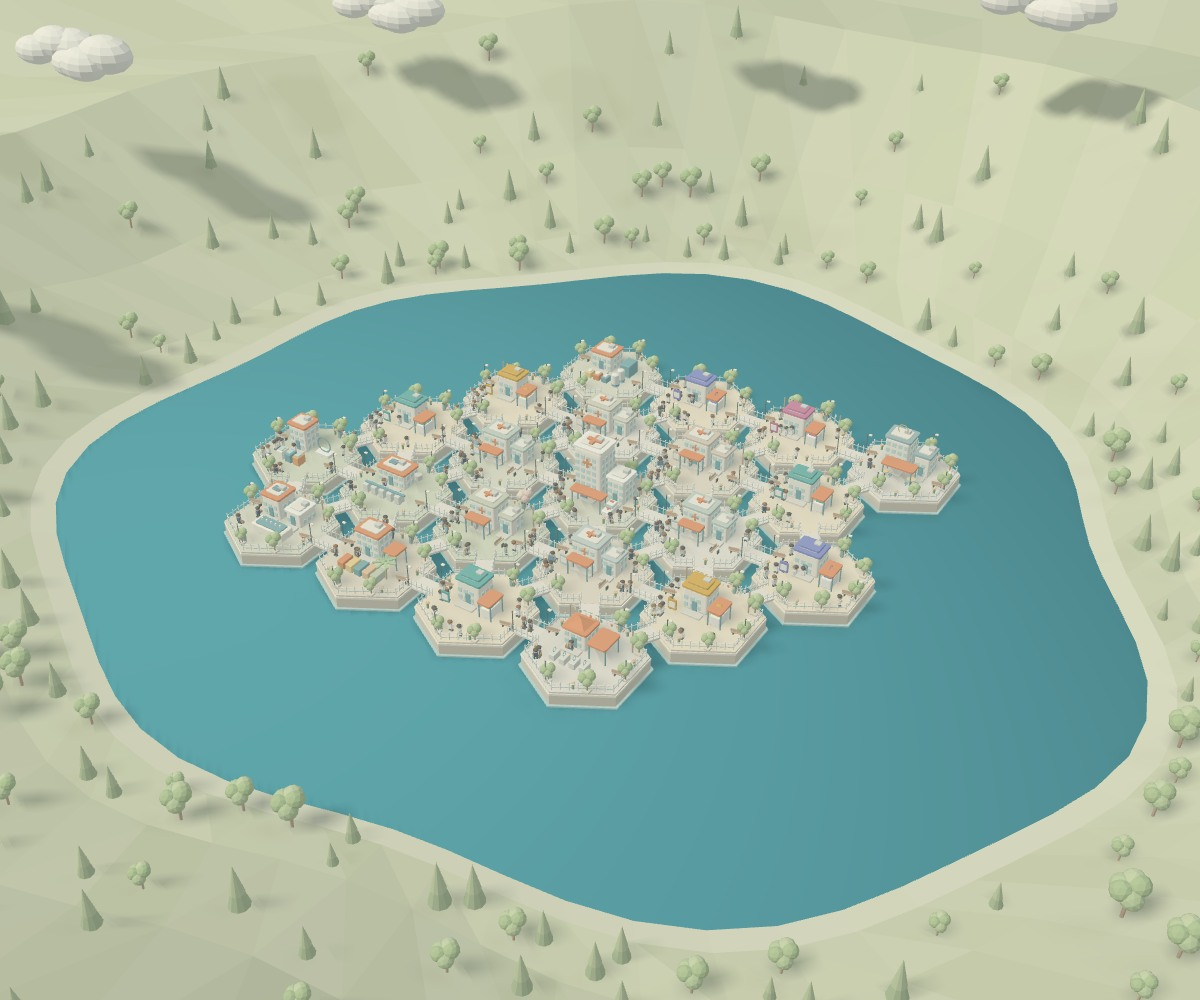
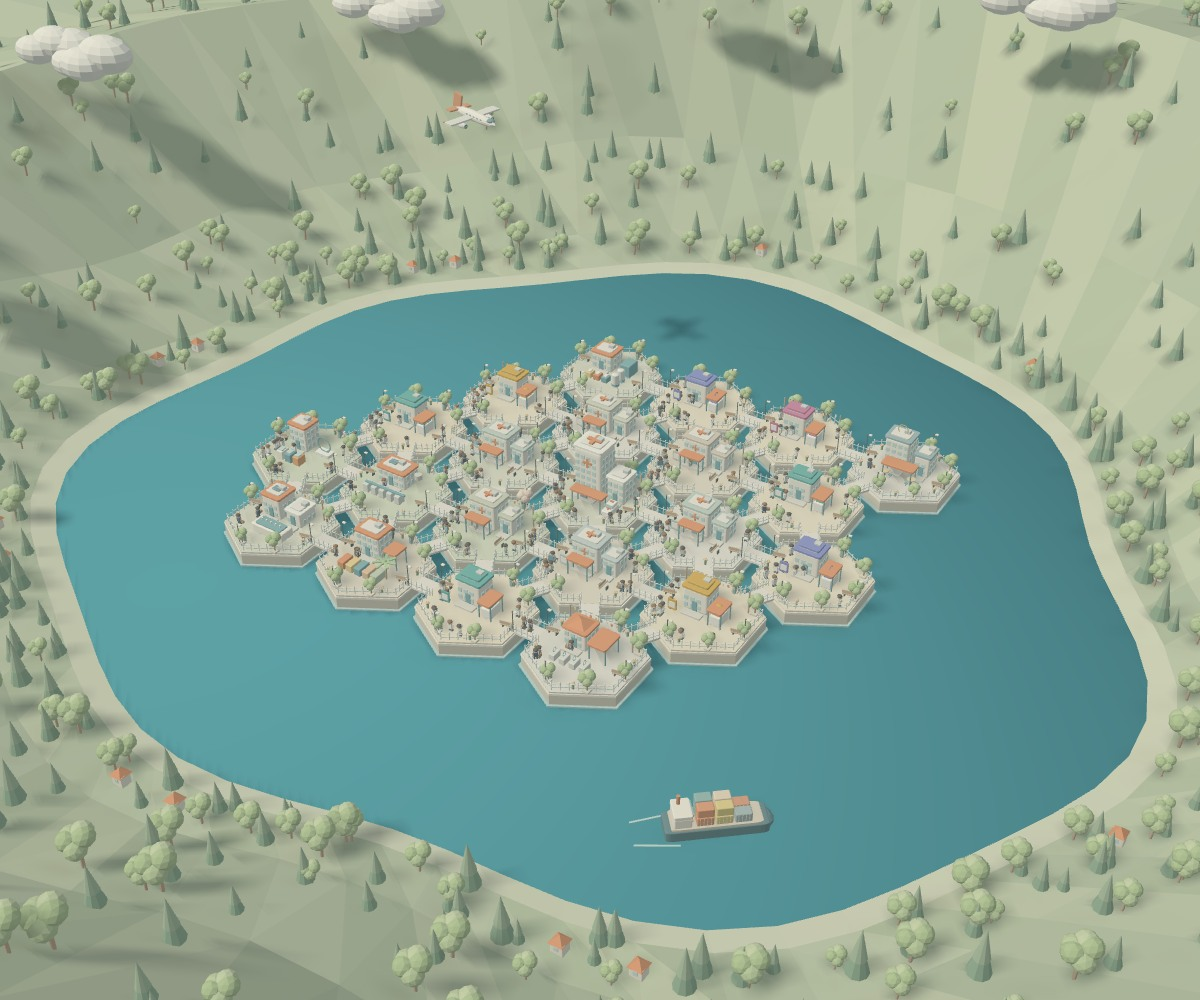
Add animated cargo ship and aircraft with denser mountain lake scenery

diff --git a/island.html b/island.html
@@ -23,6 +23,7 @@ body{background:#62aab5}#island{position:absolute;inset:0;overflow:hidden}#islan
 .scene{isolation:isolate}.masthead,.mapnav,.toolbar,.viewtools,.map-caption{z-index:80}.sidebar{z-index:100}.world-labels{z-index:20}.world-label{font-size:14px;padding:10px 14px;background:#fffdf4ee;border:1px solid #eee7d8;box-shadow:0 4px 12px #29484c20}.world-label span{font-size:12px}.world-label[hidden]{display:none}.label-leaders{position:absolute;inset:0;width:100%;height:100%;overflow:visible;pointer-events:none}.label-leaders line{stroke:#fff9e9;stroke-width:1.8;filter:drop-shadow(0 1px 1px #365c6170)}.person-card{position:fixed;left:22px;bottom:135px;z-index:110;min-width:275px;max-width:350px;border-radius:19px;border:1px solid #e3d7c7;background:#fffaf0f5;padding:18px 19px;box-shadow:0 8px 35px #24454a33;backdrop-filter:blur(10px)}.person-card>small{color:#b17854;font-size:12px;display:block;margin-right:25px}.person-card>strong{font-size:20px;display:block;margin:7px 0}.person-card>p{font-size:14px;line-height:1.7;margin:6px 0 13px;color:#717064}.close-person{position:absolute;right:10px;top:10px;border:0;background:none;font-size:23px}.person-views{display:flex;gap:6px}.person-views button{border:1px solid #dcc9b5;background:#fff9ed;border-radius:16px;padding:7px 12px;font-size:12px}.person-views button.active{background:#c96e45;color:white;border-color:#c96e45}.people-list{display:grid;gap:8px}.person-item{display:grid;gap:4px;text-align:left;background:#fffaf1;border:1px solid #e2d7c7;border-radius:12px;padding:12px}.person-item strong{font-size:14px}.person-item span,.person-item small{font-size:12px;color:#86745f}.filtertabs{gap:13px}.filtertabs button{font-size:12px;white-space:nowrap}
 @media(max-width:700px){.world-label{font-size:13px;padding:10px 12px}.world-label span{font-size:11px}.person-card{left:12px;bottom:65px;max-width:calc(100% - 24px);min-width:260px;padding:15px 17px}.person-card>strong{font-size:18px}.filtertabs{gap:15px}.filtertabs button{font-size:12px}}
 .auth.saved:not([open]){padding:0;border:0;background:none;margin:5px 0 13px}.auth.saved:not([open]) summary{font-size:12px;font-weight:400;color:#978773;text-align:right}.person-item{padding:16px}.person-item strong{font-size:16px}.person-item small{font-size:13px;line-height:1.7}
+@media(min-width:701px){.webgl-note{top:145px;bottom:auto;left:20px;transform:none;max-width:280px;text-align:left;font-size:11px;padding:7px 10px}}
 /* Product and capability details share the existing island palette. */
 .sidebar{overflow-x:hidden}.side-lead,.result p,.source-note,.content-note{overflow-wrap:anywhere}.filtertabs{flex-wrap:wrap;gap:3px 13px}.filtertabs button{font-size:13px}.public-query{border-top:1px solid #ded3c5;margin-top:26px;padding-top:7px}.product-list{display:grid;gap:12px}.product-card{display:block;scroll-margin-top:20px;padding:15px}.product-title{display:flex;align-items:flex-start;gap:8px;justify-content:space-between}.product-title strong{font-size:16px;line-height:1.7}.product-card p{font-size:14px;line-height:1.85;margin:10px 0;color:#6f7065}.product-status{flex:none;border:1px solid #d8c4b0;border-radius:20px;padding:3px 9px;font-size:12px;white-space:nowrap}.product-status.developing{background:#f1dfce;color:#ae5b39;border-color:#f1dfce}.product-card .also-in{display:block;text-align:right;font-size:12px;margin-top:5px}.material{font-size:14px!important;color:#8c755e!important;line-height:1.8}.content-chips{display:flex;flex-wrap:wrap;gap:7px;margin:11px 0}.content-chip{border:1px solid #ddcbbb;border-radius:18px;padding:7px 10px;background:#fffaf1;color:#9c623f;font-size:13px;line-height:1.5;text-align:left}.content-chip:hover{background:#f1dfce}.content-note{font-size:12px!important;color:#96846f!important;line-height:1.8;margin:12px 0}.family-label{display:inline-flex;align-items:center;gap:8px;font-size:14px;color:var(--family);border-radius:16px;background:#fffaf0;padding:7px 11px}.family-label:before{content:'';width:9px;height:9px;border-radius:50%;background:var(--family)}.content-steps{padding-left:27px;margin:20px 0}.content-steps li{padding:0 0 19px 4px;font-size:14px;line-height:1.9}.content-steps li::marker{color:#c96943;font-family:'DM Mono',monospace;font-weight:bold}.content-steps strong{font-size:15px}.content-steps p{font-size:14px;line-height:1.85;color:#747467;margin:6px 0}.capability-items li{padding-bottom:12px}.capability-items small{display:block;font-size:12px;color:#b07852}.journey-tabs{flex-wrap:wrap}.journey-tabs button{font-size:14px}.compact-product{width:100%;margin:9px 0}.compact-product strong{font-size:16px}.tech-neighbor{width:100%;justify-content:space-between;flex-wrap:wrap}.tech-neighbor small{color:#a67e5a;font-size:12px}.related-list{grid-template-columns:1fr!important}.product-highlight{outline:3px solid #c96943;background:#fff4e1}.search-match{display:block;margin-top:6px;font-size:12px;color:#bb724b}.matrix-scroll{overflow-x:auto;overscroll-behavior-x:contain;max-width:100%;border:1px solid #ded3c4;border-radius:12px;background:#fffcf6}.cap-matrix{border-collapse:separate;border-spacing:0;min-width:795px;width:100%;font-size:13px}.cap-matrix caption{text-align:left;padding:12px;font-size:15px;font-weight:bold}.cap-matrix th,.cap-matrix td{border-bottom:1px solid #ebe3d8;padding:9px 5px;text-align:center}.cap-matrix th:first-child{position:static;background:#fffcf6;min-width:137px;text-align:left}.cap-matrix thead th{vertical-align:bottom}.cap-matrix th button{border:0;background:none;padding:4px;color:#746d61;font:inherit;cursor:pointer}.cap-matrix thead button{writing-mode:vertical-rl;min-height:112px;text-align:left;font-size:13px}.cap-matrix button.active{background:#f1dfce;border-radius:8px;color:#ae5b39}.cap-matrix td span:not(.sr-only){display:inline-block;width:11px;height:11px;border-radius:50%}.cap-matrix .family-row th{padding:12px;background:#f5efe4;font-size:13px}.common-capabilities{display:grid;gap:7px}.common-capabilities .person-item{display:flex;align-items:center;justify-content:space-between;gap:8px}.common-capabilities .active{border-color:#c96943;background:#f1dfce}.copy-state{margin:14px 0}.copy-fallback{width:100%;min-height:160px;font-size:13px}.km-link{display:block;font-size:13px!important;color:#9c623f;line-height:1.7;padding:7px 0;overflow-wrap:anywhere}.km-records{margin:8px 0}.km-records .source-note{font-size:12px}.km-count{margin-left:6px;border-radius:12px;background:#e6ede0;padding:2px 6px;color:#537363;font:11px 'DM Mono',monospace}.world-label.cap-dim{opacity:.4}.world-label.selected.cap-dim{opacity:.4}.sr-only{position:absolute;width:1px;height:1px;padding:0;overflow:hidden;clip:rect(0,0,0,0);white-space:nowrap}.tile-item{min-width:0}.tile-item>span{min-width:0}.tile-item .title{overflow-wrap:anywhere}.scene-fallback{object-fit:contain}.detail-top{gap:12px}.detail-top h2{font-size:25px}.thumb-wrap{width:83px;height:90px}.mapnav{top:118px}.mapnav #techToggle{color:#a86241}.mapnav .round{font-size:14px}.mapnav #techToggle:hover{color:white}
 @media(min-width:1500px){.mapnav{top:20px}.masthead{max-width:420px}.mapnav{max-width:320px}}
@@ -54,7 +55,7 @@ html{-webkit-text-size-adjust:100%;text-size-adjust:100%}
 <nav class="mapnav" aria-label="地圖操作"><button class="round" id="home">⌂ 全景</button><button class="round" id="character">☺ 角色</button><button class="round" id="listToggle">☰ 清單</button><button class="round" id="timesToggle">◷ 時間</button><button class="round" id="techToggle">◆ 技術</button><a class="round" href="index.html" style="text-decoration:none">查詢版 ↗</a><button class="round" id="helpButton" aria-label="操作說明">?</button></nav>
 <div id="relationKey" class="relation-key" hidden>實線：產品對應　・　虛線：推定對應＊</div><div class="compass"><span>N</span></div><div class="viewtools"><button class="round" id="zoomIn" aria-label="放大">＋</button><button class="round" id="zoomOut" aria-label="縮小">−</button></div>
 <div class="map-caption"><b id="sceneTitle">點編號探索醫材分區。</b><br><span id="sceneHint">拖曳旋轉 · 滾輪縮放 · 點選地塊</span><small><span class="live-dot"></span>LIVE ISLAND / OPENFUN DATA</small></div>
-<div class="toolbar" aria-label="島嶼顯示選項"><div class="timebuttons"><button data-time="0"><span class="symbol">◒</span>清晨</button><button data-time="1" class="active"><span class="symbol">☀</span>白天</button><button data-time="2"><span class="symbol">◓</span>黃昏</button><button data-time="3"><span class="symbol">☾</span>夜晚</button><span id="clock" class="timeclock">12:00</span></div><div class="layers"><button id="labels">名牌</button><button id="traffic" class="active">搬運</button><button id="connections" aria-pressed="false">關聯</button><button id="pause">Ⅱ 暫停</button><button id="aerial">鳥瞰</button></div></div><div class="tooltip" id="tooltip"></div>
+<div class="toolbar" aria-label="島嶼顯示選項"><div class="timebuttons"><button data-time="0"><span class="symbol">◒</span>清晨</button><button data-time="1" class="active"><span class="symbol">☀</span>白天</button><button data-time="2"><span class="symbol">◓</span>黃昏</button><button data-time="3"><span class="symbol">☾</span>夜晚</button><span id="clock" class="timeclock">12:00</span></div><div class="layers"><button id="labels">名牌</button><button id="traffic" class="active">人流・運輸</button><button id="connections" aria-pressed="false">關聯</button><button id="pause">Ⅱ 暫停</button><button id="aerial">鳥瞰</button></div></div><div class="tooltip" id="tooltip"></div>
 </section>
 <aside class="sidebar" id="sidebar" aria-label="產品清單及商情資訊"><div class="side-head"><small>THE MEDTECH INDEX</small><button class="iconbutton mobile-close" id="closePanel" aria-label="關閉清單">×</button><span class="number">01 — 22</span></div><div id="sideContent"></div></aside>
 <div id="toast" class="toast" role="status"></div>
@@ -132,7 +133,7 @@ function detailBody(t){if(t.type==='dept'){
 }
 function showList(){window.medtechScene?.home();window.previewMarker?.select(-1);$('#personCard')?.remove();selected=null;window.syncPreviewRelations?.();resetHighlights();target.x=0;target.z=0;target.zoom=1;querySeq++;recordSeq++;$('#sceneTitle').textContent='點編號探索醫材分區。';$('#sideContent').innerHTML=`<h2>把需求，連起來。</h2><p class="side-lead">以蜂窩排列的醫材分區，地塊間保留水道與短橋，外圍以山林湖岸環繞。中央醫院、六個科別，連結技術與供應服務。點科別看產品，開啟「關聯」看對應。</p><div class="searchwrap"><input id="listSearch" type="search" placeholder="搜尋產品、技術、關鍵字…" aria-label="搜尋地塊" value="${esc(listQuery)}"></div><div class="filtertabs"><button data-filter="all">全部</button><button data-filter="dept">科別</button><button data-filter="tech">技術分區</button><button data-filter="supplier">供應服務</button><button data-filter="market">醫院與客戶</button></div><div class="tile-list" id="tileList"></div><div class="side-foot"><span class="live-dot"></span>商情資料來自歐噴資料庫。<br>蜂窩分區供內容導覽，相鄰不代表合作。產品與技術對應請看「關聯」；＊為推定或待確認。</div>`;renderList();$('#listSearch').addEventListener('input',e=>{listQuery=e.target.value;renderList()})}
 function renderList(){const q=listQuery.trim().toLowerCase(),hits=C.products.filter(p=>p.name.toLowerCase().includes(q)),list=tiles.filter(t=>(filter==='all'||t.type===filter)&&((t.name+t.en+t.tags.join('')).toLowerCase().includes(q)||hits.some(p=>p.dept===t.id)));$('#tileList').innerHTML=list.length?list.map(t=>`<button class="tile-item" data-tile="${t.i}"><span class="tile-icon" style="background:${t.color}">${t.icon}</span><span><span class="title">${t.name}</span><span class="subtitle">${t.en}</span>${q&&hits.some(p=>p.dept===t.id)?`<small class="search-match">含：${hits.filter(p=>p.dept===t.id).map(p=>esc(p.name)).join('、')}</small>`:''}</span><span class="arrow">↗</span></button>`).join(''):'<p class="empty">沒有相符的方向，請換個關鍵字。</p>';document.querySelectorAll('[data-filter]').forEach(b=>b.classList.toggle('active',b.dataset.filter===filter))}
-function choose(i){if(!tiles[i])return;resetHighlights();$('#personCard')?.remove();window.previewMarker?.select(i);selected=tiles[i];window.syncPreviewRelations?.();window.medtechScene?.focus(i);target.x=selected.x;target.z=selected.z;target.zoom=1.32;$('#sceneTitle').textContent=selected.name+' · '+selected.tags.join('／');$('#sideContent').innerHTML=`<button class="back" id="backList">← 回到探索清單</button><div class="detail-top"><div class="thumb-wrap"><img id="detailThumb" src="town-preview.jpg?v=10" alt="${selected.name}島嶼場景"><span>${selected.icon}</span></div><div><p class="detail-num">${String(i+1).padStart(2,'0')} / ${selected.en}</p><h2>${selected.name}</h2></div></div><p class="side-lead">${esc(selected.description)}</p><div class="tags">${selected.tags.map(t=>`<span>${esc(t)}</span>`).join('')}</div>${detailBody(selected)}<section class="public-query"><h3 class="results-heading">歐噴資料庫查詢</h3><form class="query-form" id="queryForm"><input id="query" aria-label="歐噴關鍵字" value="${selected.query}" required><button class="primary">搜尋 ↗</button></form>${authHTML()}<div id="queryResults"><p class="status">正在搜尋公開索引…</p></div><div id="records"></div><p class="source-note">來源：<a href="https://data.openfun.tw/" target="_blank" rel="noopener noreferrer">歐噴資料庫</a>。索引條目不等同採購需求，請核對原始來源。</p></section>`;$('#sidebar').scrollTop=0;document.body.classList.add('panel-open');runQuery(selected.query)}
+function choose(i){if(!tiles[i])return;resetHighlights();$('#personCard')?.remove();window.previewMarker?.select(i);selected=tiles[i];window.syncPreviewRelations?.();window.medtechScene?.focus(i);target.x=selected.x;target.z=selected.z;target.zoom=1.32;$('#sceneTitle').textContent=selected.name+' · '+selected.tags.join('／');$('#sideContent').innerHTML=`<button class="back" id="backList">← 回到探索清單</button><div class="detail-top"><div class="thumb-wrap"><img id="detailThumb" src="town-preview.jpg?v=12" alt="${selected.name}島嶼場景"><span>${selected.icon}</span></div><div><p class="detail-num">${String(i+1).padStart(2,'0')} / ${selected.en}</p><h2>${selected.name}</h2></div></div><p class="side-lead">${esc(selected.description)}</p><div class="tags">${selected.tags.map(t=>`<span>${esc(t)}</span>`).join('')}</div>${detailBody(selected)}<section class="public-query"><h3 class="results-heading">歐噴資料庫查詢</h3><form class="query-form" id="queryForm"><input id="query" aria-label="歐噴關鍵字" value="${selected.query}" required><button class="primary">搜尋 ↗</button></form>${authHTML()}<div id="queryResults"><p class="status">正在搜尋公開索引…</p></div><div id="records"></div><p class="source-note">來源：<a href="https://data.openfun.tw/" target="_blank" rel="noopener noreferrer">歐噴資料庫</a>。索引條目不等同採購需求，請核對原始來源。</p></section>`;$('#sidebar').scrollTop=0;document.body.classList.add('panel-open');runQuery(selected.query)}
 function goProduct(id){const p=C.products.find(p=>p.id===id);if(!p)return;choose(tileById(p.dept).i);const el=$('#product-'+id);if(!el)return;el.classList.add('product-highlight');el.scrollIntoView({block:'start',behavior:paused?'auto':'smooth'});setTimeout(()=>el.classList.remove('product-highlight'),2400)}
 function showTechMap(){querySeq++;recordSeq++;selected=null;$('#personCard')?.remove();window.medtechScene?.home();window.previewMarker?.select(-1);resetHighlights();const ordered=['surface','structure','forming','process'].flatMap(f=>C.techs.filter(t=>t.family===f));$('#sceneTitle').textContent='從產品應用，走向技術與共用能力。';$('#sideContent').innerHTML=`<button class="back" id="backList">← 回到探索清單</button><h2>技術地圖</h2><p class="side-lead">八座技術分區，十二項共用能力。點能力欄頭，查看共用能力的技術分區。</p><div class="matrix-scroll" tabindex="0" role="region" aria-label="技術與共用能力矩陣，可左右滑動"><table class="cap-matrix"><caption>技術 × 共用能力</caption><thead><tr><th scope="col">技術分區</th>${C.capabilities.map(c=>`<th scope="col"><button data-capability="${c.id}" aria-pressed="false">${esc(c.name)}</button></th>`).join('')}</tr></thead><tbody>${ordered.map((t,i)=>{const f=C.families[t.family],newFamily=i===0||ordered[i-1].family!==t.family;return `${newFamily?`<tr class="family-row"><th colspan="${C.capabilities.length+1}" style="color:${f.color}">${f.name}</th></tr>`:''}<tr><th scope="row"><button data-tech="${t.id}">${esc(tileById(t.id).name)}</button></th>${C.capabilities.map(c=>`<td class="${c.techs.includes(t.id)?'has-cap':''}">${c.techs.includes(t.id)?`<span style="background:${f.color}" role="img" aria-label="使用${esc(c.name)}"></span>`:'<span class="sr-only">未共用</span>'}</td>`).join('')}</tr>`}).join('')}</tbody></table></div><p class="content-note">＊分區為本站整理。圓點表示能力項目有對應關鍵字，不代表完成度。</p><p id="capStatus" class="status" role="status">選擇能力可標亮島名。</p><h3 class="results-heading">最常共用的能力</h3><div class="common-capabilities">${[...C.capabilities].sort((a,b)=>b.techs.length-a.techs.length).slice(0,5).map(c=>`<button class="person-item" data-capability="${c.id}"><strong>${esc(c.name)}</strong><small>共用 ×${c.techs.length}</small></button>`).join('')}</div>${kmSettings()}<button class="primary copy-state" id="copyState">複製目前狀態</button><p class="content-note">複製技術名稱、紀錄數與紀錄標題；未連線時不填入紀錄數。</p><textarea id="copyFallback" class="copy-fallback" aria-label="目前狀態文字" hidden readonly></textarea>`;$('#sidebar').scrollTop=0;document.body.classList.add('panel-open')}
 
@@ -171,12 +172,12 @@ window.showPersonInfo=p=>{let card=$('#personCard');if(!card){card=document.crea
 window.updatePersonInfo=p=>{if($('#personCard')?.dataset.person===String(p.id)){$('#personTask').textContent=p.task;$('#personCard > small').textContent=p.island}};
 document.addEventListener('click',e=>{const b=e.target.closest('[data-person]');if(b)window.medtechScene?.selectPerson(+b.dataset.person,b.dataset.personView);if(e.target.id==='closePerson'){$('#personCard')?.remove();window.medtechScene?.clearPerson()}});
 window.syncPreviewRelations=()=>{const svg=$('#previewRelations'),anchors=window.previewRelationAnchors;if(!svg||!anchors)return;const related=window.MEDTECH_RELATIONS.filter(r=>selected?(r.a===selected.i||r.b===selected.i):r.kind==='application');svg.style.display=showLinks?'':'none';svg.innerHTML=related.map(r=>{const a=anchors[r.a],b=anchors[r.b],lift=Math.min(95,25+Math.hypot(a.x-b.x,a.y-b.y)*.15);return `<path d="M ${a.x},${a.y} Q ${(a.x+b.x)/2},${(a.y+b.y)/2-lift} ${b.x},${b.y}" fill="none" stroke="${r.inferred?'#b76d44':'#316f77'}" stroke-width="2.3" ${r.inferred?'stroke-dasharray="6 5"':''}/>`}).join('')};
-window.showIslandPreview=note=>{window.previewLabelCleanup?.();const stage=$('#island');stage.style.background='#bdc69b';stage.innerHTML='<img class="scene-fallback" src="town-preview.jpg?v=10" alt="醫院科別、技術與供應服務蜂窩分區預覽"><p class="webgl-note"></p>';stage.querySelector('.webgl-note').textContent=note;const relations=document.createElementNS('http://www.w3.org/2000/svg','svg');relations.id='previewRelations';relations.classList.add('relation-overlay');stage.appendChild(relations);const marker=window.MedtechLabels.create(stage,tiles);window.previewMarker=marker;applyLabelState();marker.root.style.display=showLabels?'':'none';const image=stage.querySelector('img');const update=()=>{const r=stage.getBoundingClientRect(),portrait=r.width/r.height<.8,wanted=portrait?'town-preview-portrait.jpg?v=10':'town-preview.jpg?v=10';if(image.getAttribute('src')!==wanted){marker.root.style.visibility='hidden';image.src=wanted;return}if(!image.complete||!image.naturalWidth)return;marker.root.style.visibility='visible';const iw=portrait?780:1200,ih=portrait?1688:1000,k=Math.min(r.width/iw,r.height/ih),ox=(r.width-iw*k)/2,oy=(r.height-ih*k)/2;const anchors=(portrait?window.MEDTECH_PREVIEW_PORTRAIT_POINTS:window.MEDTECH_PREVIEW_POINTS).map(([u,v])=>({x:ox+u*iw*k,y:oy+v*ih*k}));marker.update(anchors,r.width,r.height);window.previewRelationAnchors=anchors;relations.setAttribute('viewBox',`0 0 ${r.width} ${r.height}`);window.syncPreviewRelations?.()};image.onload=update;const observer=new ResizeObserver(update);observer.observe(stage);update();window.previewLabelCleanup=()=>{observer.disconnect();marker.destroy();relations.remove();window.previewRelationAnchors=null;window.previewMarker=null}};
+window.showIslandPreview=note=>{window.previewLabelCleanup?.();const stage=$('#island');stage.style.background='#bdc69b';stage.innerHTML='<img class="scene-fallback" src="town-preview.jpg?v=12" alt="醫院科別、技術與供應服務蜂窩分區預覽"><p class="webgl-note"></p>';stage.querySelector('.webgl-note').textContent=note;const relations=document.createElementNS('http://www.w3.org/2000/svg','svg');relations.id='previewRelations';relations.classList.add('relation-overlay');stage.appendChild(relations);const marker=window.MedtechLabels.create(stage,tiles);window.previewMarker=marker;applyLabelState();marker.root.style.display=showLabels?'':'none';const image=stage.querySelector('img');const update=()=>{const r=stage.getBoundingClientRect(),portrait=r.width/r.height<.8,wanted=portrait?'town-preview-portrait.jpg?v=12':'town-preview.jpg?v=12';if(image.getAttribute('src')!==wanted){marker.root.style.visibility='hidden';image.src=wanted;return}if(!image.complete||!image.naturalWidth)return;marker.root.style.visibility='visible';const iw=portrait?780:1200,ih=portrait?1688:1000,k=Math.min(r.width/iw,r.height/ih),ox=(r.width-iw*k)/2,oy=(r.height-ih*k)/2;const anchors=(portrait?window.MEDTECH_PREVIEW_PORTRAIT_POINTS:window.MEDTECH_PREVIEW_POINTS).map(([u,v])=>({x:ox+u*iw*k,y:oy+v*ih*k}));marker.update(anchors,r.width,r.height);window.previewRelationAnchors=anchors;relations.setAttribute('viewBox',`0 0 ${r.width} ${r.height}`);window.syncPreviewRelations?.()};image.onload=update;const observer=new ResizeObserver(update);observer.observe(stage);update();window.previewLabelCleanup=()=>{observer.disconnect();marker.destroy();relations.remove();window.previewRelationAnchors=null;window.previewMarker=null}};
 window.MEDTECH_PREVIEW_POINTS=[[0.5,0.490854],[0.58604,0.529857],[0.494423,0.564487],[0.409085,0.523127],[0.41964,0.454425],[0.504921,0.425889],[0.585892,0.460364],[0.329541,0.484574],[0.509295,0.368147],[0.488048,0.648647],[0.312694,0.557344],[0.255218,0.448552],[0.234203,0.516475],[0.754004,0.466369],[0.672422,0.497206],[0.667165,0.431513],[0.58576,0.398839],[0.678384,0.571718],[0.586209,0.608973],[0.397079,0.601281],[0.344415,0.420325],[0.42899,0.39356]];
 window.MEDTECH_PREVIEW_PORTRAIT_POINTS=[[0.5,0.494921],[0.622404,0.516246],[0.492482,0.534809],[0.370633,0.512741],[0.382401,0.474433],[0.506984,0.457865],[0.625095,0.477689],[0.253649,0.491555],[0.51349,0.423351],[0.484366,0.577866],[0.236772,0.531181],[0.141242,0.471197],[0.120514,0.509259],[0.869339,0.480966],[0.747951,0.498309],[0.746127,0.461017],[0.627598,0.441826],[0.749915,0.538461],[0.619504,0.557813],[0.35795,0.55403],[0.26933,0.454733],[0.393349,0.438793]];
 showList();
 setTimeout(()=>{if(!window.medtechScene&&!$('#island').querySelector('.scene-fallback'))window.showIslandPreview('3D 尚未載入，先顯示場景預覽。島名仍可點選查詢。')},15000);
 })();
 </script>
-<script type="module" src="island-scene.js?v=11"></script>
+<script type="module" src="island-scene.js?v=12"></script>
 </body></html>

diff --git a/island-scene.js b/island-scene.js
@@ -1,7 +1,7 @@
 import * as T from 'three';
 import {OrbitControls} from 'three/addons/controls/OrbitControls.js';
 import {RoundedBoxGeometry} from './rounded-box.js';
-import {buildMedicalTown} from './island-model.js?v=10';
+import {buildMedicalTown} from './island-model.js?v=12';
 
 const stage=document.querySelector('#island'),area=document.querySelector('#scene');
 let renderer;
@@ -23,7 +23,7 @@ function start(){
  const selectedRing=new T.LineLoop(new T.BufferGeometry().setFromPoints(Array.from({length:6},(_,i)=>new T.Vector3(Math.cos(Math.PI/6+i*Math.PI/3)*2.16,.70,Math.sin(Math.PI/6+i*Math.PI/3)*2.16))),new T.LineBasicMaterial({color:0xd97043}));selectedRing.visible=false;scene.add(selectedRing);
  const mats=new Map();function material(c){if(!mats.has(c))mats.set(c,new T.MeshStandardMaterial({color:c,roughness:.72}));return mats.get(c)}
  function simple(group,geo,pos,scale,c){const m=new T.Mesh(geo,material(c));m.position.set(...pos);m.scale.set(...scale);m.castShadow=true;m.receiveShadow=true;group.add(m);return m}
- const boats=[];for(let i=0;i<3;i++){const g=new T.Group();simple(g,city.geometries.round,[0,.18,0],[.40,.18,1.0],0xf4eede);simple(g,city.geometries.round,[0,.36,-.10],[.28,.27,.40],i%2?0x568e97:0xdb7649);simple(g,city.geometries.round,[0,.51,-.10],[.34,.045,.45],0xf4ead5);simple(g,city.geometries.round,[0,.30,.28],[.19,.19,.22],0xd7b27c);scene.add(g);boats.push(g)}
+ const boats=[];
  const birds=[];for(let i=0;i<8;i++){const g=new T.Group();simple(g,city.geometries.ball,[0,0,0],[.07,.06,.17],0xeeeede);const left=simple(g,city.geometries.round,[-.12,.015,0],[.23,.025,.07],0xf7f3e7),right=simple(g,city.geometries.round,[.12,.015,0],[.23,.025,.07],0xf7f3e7);scene.add(g);birds.push({g,left,right})}
  const ripples=[];const rippleMaterial=new T.MeshBasicMaterial({color:0xd3f0ec,transparent:true,opacity:.12,depthWrite:false});for(let i=0;i<25;i++){const m=new T.Mesh(new T.RingGeometry(.21,.235,20),rippleMaterial);m.rotation.x=-Math.PI/2;m.scale.set(1.8,.6,1);m.position.set(Math.sin(i*2.31)*17,-.075,Math.cos(i*1.71)*15);scene.add(m);ripples.push(m)}
  let selected=-1,hover=-1,options={labels:true,traffic:true,links:false,paused:matchMedia('(prefers-reduced-motion: reduce)').matches},time=0,timeTarget=1,timeValue=1,night=0,lastNight=-1,transition=null,follow=false,thumbnail=0,personId=-1,personMode='follow',profileTick=0;
@@ -35,7 +35,7 @@ function start(){
  function tweenTo(center,distance=15){follow=false;personId=-1;controls.enabled=true;city.hiddenActor=-1;city.updatePeople(time);const direction=camera.position.clone().sub(controls.target).normalize();transition={from:camera.position.clone(),to:center.clone().addScaledVector(direction,distance),targetFrom:controls.target.clone(),targetTo:center.clone(),at:performance.now()};}
  function home(){selected=-1;updateLinks();selectedRing.visible=false;follow=false;const mobile=innerWidth<760,center=new T.Vector3(0,.7,0),direction=new T.Vector3(.47,.60,.65).normalize();const dimensions=area.getBoundingClientRect(),aspect=dimensions.width/dimensions.height,fov=camera.fov*Math.PI/180,vertical=new T.Vector3(.47,.60,.65).normalize(),look=new T.Matrix4().lookAt(vertical,new T.Vector3(0,0,0),new T.Vector3(0,1,0)),right=new T.Vector3().setFromMatrixColumn(look,0),up=new T.Vector3().setFromMatrixColumn(look,1);let required=27;for(const c of [...city.tileCenters,...city.landscape.overview]){const v=new T.Vector3(c.x,1.0,c.z),depth=v.dot(vertical);required=Math.max(required,(Math.abs(v.dot(right))+2.7)/(Math.tan(fov/2)*aspect)+depth,(Math.abs(v.dot(up))+3.0)/Math.tan(fov/2)+depth)}const distance=Math.min(148,required*1.08);tweenTo(center,distance);transition.to.copy(center).addScaledVector(direction,distance);marker.select(-1)}
  function focus(i){selected=i;updateLinks();const c=city.tileCenters[i];selectedRing.position.set(c.x,0,c.z);selectedRing.visible=true;marker.select(i);const center=new T.Vector3(c.x,.9,c.z);if(innerWidth<760)center.y=-.2;tweenTo(center,innerWidth<760?10.5:15);thumbnail=performance.now()+1400;}
- window.medtechScene={home,focus,setOptions(o){options={...options,...o};updateLinks();labels.style.display=options.labels?'':'none';linkGroup.visible=options.links;boats.forEach(b=>b.visible=options.traffic);birds.forEach(b=>b.g.visible=options.traffic);},setTime(n){timeTarget=n},zoom(factor){follow=false;const d=camera.position.clone().sub(controls.target),len=T.MathUtils.clamp(d.length()/factor,6,150);tweenTo(controls.target.clone(),len)},aerial(on=true){follow=false;personId=-1;controls.enabled=true;city.hiddenActor=-1;city.updatePeople(time);if(!on){selected>=0?focus(selected):home();return}const center=controls.target.clone();transition={from:camera.position.clone(),to:center.clone().add(new T.Vector3(0,32,.1)),targetFrom:controls.target.clone(),targetTo:center,at:performance.now()};},follow(){selectPerson(personId>=0?personId:0)}};
+ window.medtechScene={home,focus,setOptions(o){options={...options,...o};updateLinks();labels.style.display=options.labels?'':'none';linkGroup.visible=options.links;city.transport.visible=options.traffic;boats.forEach(b=>b.visible=options.traffic);birds.forEach(b=>b.g.visible=options.traffic);},setTime(n){timeTarget=n},zoom(factor){follow=false;const d=camera.position.clone().sub(controls.target),len=T.MathUtils.clamp(d.length()/factor,6,150);tweenTo(controls.target.clone(),len)},aerial(on=true){follow=false;personId=-1;controls.enabled=true;city.hiddenActor=-1;city.updatePeople(time);if(!on){selected>=0?focus(selected):home();return}const center=controls.target.clone();transition={from:camera.position.clone(),to:center.clone().add(new T.Vector3(0,32,.1)),targetFrom:controls.target.clone(),targetTo:center,at:performance.now()};},follow(){selectPerson(personId>=0?personId:0)}};
  function resize(){const r=area.getBoundingClientRect();renderer.setSize(r.width,r.height);camera.aspect=r.width/r.height;camera.updateProjectionMatrix()}new ResizeObserver(resize).observe(area);resize();camera.position.set(20,26,29);controls.target.set(0,.6,0);home();
  function labelPositions(){const r=area.getBoundingClientRect();marker.update(city.tileCenters.map(c=>{const v=new T.Vector3(c.x,.93,c.z).project(camera);return{x:(v.x*.5+.5)*r.width,y:(-v.y*.5+.5)*r.height,visible:v.z<1}}),r.width,r.height,{detail:camera.position.distanceTo(controls.target)<25})}
  const roleNames={doctor:'醫師',nurse:'護理師',patient:'病人',factory:'無塵室作業員',sales:'業務員',lab:'研發／驗證人員'};
@@ -47,6 +47,6 @@ function start(){
  renderer.domElement.addEventListener('pointerdown',e=>{down={x:e.clientX,y:e.clientY};transition=null;follow=false;controls.enabled=true;city.hiddenActor=-1});renderer.domElement.addEventListener('pointerup',e=>{if(down&&Math.hypot(e.clientX-down.x,e.clientY-down.y)<7){const hit=cast(e);if(hit?.person!==undefined)selectPerson(hit.person);else if(hit)window.selectMedtechTile(hit.tile)}down=null});renderer.domElement.addEventListener('pointermove',e=>{if(down)return;const hit=cast(e),i=hit?.tile??-1;if(i!==hover){hover=i;renderer.domElement.style.cursor=hit?'pointer':'grab';badges.forEach((b,k)=>b.classList.toggle('hovered',k===i))}});
  renderer.domElement.addEventListener('keydown',e=>{if(e.key==='ArrowLeft'||e.key==='ArrowRight'){e.preventDefault();const offset=camera.position.clone().sub(controls.target);offset.applyAxisAngle(new T.Vector3(0,1,0),e.key==='ArrowLeft'?-.12:.12);camera.position.copy(controls.target).add(offset)}if(e.key==='Home')home()});
  function lighting(dt){timeValue+=(timeTarget-timeValue)*(1-Math.exp(-dt*2.1));night=T.MathUtils.clamp(timeValue-2,0,1);const dusk=1-Math.min(1,Math.abs(timeValue-2)),day=new T.Color(0x62aab5),evening=new T.Color(0x84aaa8),dark=new T.Color(0x233e50);const seaColor=day.clone().lerp(evening,dusk*.5).lerp(dark,night);const skyColor=new T.Color(0xbcc8b6).lerp(new T.Color(0xd5baa1),dusk*.4).lerp(new T.Color(0x263e50),night);scene.background.copy(skyColor);scene.fog.color.copy(skyColor);const viewDistance=camera.position.distanceTo(controls.target);scene.fog.near=Math.max(32,viewDistance+18);scene.fog.far=scene.fog.near+110;sea.material.color.copy(seaColor);sun.intensity=3.25*(1-night)+.38*night;ambient.intensity=2.15*(1-night)+.65*night;fill.intensity=.36*(1-night)+.22*night;sun.color.setHex(0xfff3d9).lerp(new T.Color(0xffb178),dusk*.3);document.body.classList.toggle('night',night>.5);if(Math.abs(lastNight-night)>.025){city.setNight(night);lastNight=night;for(const b of city.staticMeshes)if(b.kind==='glass'){b.mesh.material.emissive.setHex(0xffd99d);b.mesh.material.emissiveIntensity=night*.8}}}
- function frame(){requestAnimationFrame(frame);const dt=Math.min(clock.getDelta(),.12);if(!options.paused)time+=dt;lighting(dt);if(transition){const t=T.MathUtils.clamp((performance.now()-transition.at)/1050,0,1),k=t*t*(3-2*t);camera.position.lerpVectors(transition.from,transition.to,k);controls.target.lerpVectors(transition.targetFrom,transition.targetTo,k);if(t===1)transition=null}if(options.traffic){city.updatePeople(time);boats.forEach((b,i)=>{const a=time*.035+i*2.094;b.position.set(Math.sin(a)*17.5,-.02,Math.cos(a)*14.5);b.rotation.y=Math.atan2(Math.cos(a)*17.5,-Math.sin(a)*14.5)});birds.forEach((b,i)=>{const a=time*.1+i*1.7;b.g.position.set(Math.sin(a)*14,3.1+Math.sin(a*2+i)*.3,Math.cos(a*.86)*12);b.g.rotation.y=-a;b.left.rotation.z=Math.sin(time*5+i)*.35;b.right.rotation.z=-Math.sin(time*5+i)*.35});ripples.forEach((m,i)=>m.material.opacity=.10+Math.sin(time*.5+i)*.025)}if(follow&&personId>=0){const a=city.actors[personId],door=a.indoors?city.doors[a.indoorTile]:null,dir=door?new T.Vector3(0,0,1):new T.Vector3(Math.sin(a.ry),0,Math.cos(a.ry)),center=door?new T.Vector3(door.x,a.y+.29,door.z+.12):new T.Vector3(a.x,a.y+.29,a.z),eye=center.clone();let look=center.clone();if(personMode==='first'){eye.y=a.y+.41;look=eye.clone().addScaledVector(dir,1.5);look.y-=.05}else if(personMode==='top'){eye.add(new T.Vector3(0,5,.03))}else{eye.addScaledVector(dir,door?2.3:-2.1);eye.y+=1.6}camera.position.lerp(eye,.14);controls.target.lerp(look,.24);camera.lookAt(controls.target);if(time-profileTick>.6){window.updatePersonInfo?.(profile(personId));profileTick=time}}else controls.update();labelPositions();renderer.render(scene,camera);if(thumbnail&&performance.now()>thumbnail){thumbnail=0;const img=document.querySelector('#detailThumb');if(img){try{img.src=renderer.domElement.toDataURL('image/webp',.7)}catch{}}}}
+ function frame(){requestAnimationFrame(frame);const dt=Math.min(clock.getDelta(),.12);if(!options.paused)time+=dt;lighting(dt);if(transition){const t=T.MathUtils.clamp((performance.now()-transition.at)/1050,0,1),k=t*t*(3-2*t);camera.position.lerpVectors(transition.from,transition.to,k);controls.target.lerpVectors(transition.targetFrom,transition.targetTo,k);if(t===1)transition=null}if(options.traffic){city.updatePeople(time);city.updateTransport(time);boats.forEach((b,i)=>{const a=time*.035+i*2.094;b.position.set(Math.sin(a)*17.5,-.02,Math.cos(a)*14.5);b.rotation.y=Math.atan2(Math.cos(a)*17.5,-Math.sin(a)*14.5)});birds.forEach((b,i)=>{const a=time*.1+i*1.7;b.g.position.set(Math.sin(a)*14,3.1+Math.sin(a*2+i)*.3,Math.cos(a*.86)*12);b.g.rotation.y=-a;b.left.rotation.z=Math.sin(time*5+i)*.35;b.right.rotation.z=-Math.sin(time*5+i)*.35});ripples.forEach((m,i)=>m.material.opacity=.10+Math.sin(time*.5+i)*.025)}if(follow&&personId>=0){const a=city.actors[personId],door=a.indoors?city.doors[a.indoorTile]:null,dir=door?new T.Vector3(0,0,1):new T.Vector3(Math.sin(a.ry),0,Math.cos(a.ry)),center=door?new T.Vector3(door.x,a.y+.29,door.z+.12):new T.Vector3(a.x,a.y+.29,a.z),eye=center.clone();let look=center.clone();if(personMode==='first'){eye.y=a.y+.41;look=eye.clone().addScaledVector(dir,1.5);look.y-=.05}else if(personMode==='top'){eye.add(new T.Vector3(0,5,.03))}else{eye.addScaledVector(dir,door?2.3:-2.1);eye.y+=1.6}camera.position.lerp(eye,.14);controls.target.lerp(look,.24);camera.lookAt(controls.target);if(time-profileTick>.6){window.updatePersonInfo?.(profile(personId));profileTick=time}}else controls.update();labelPositions();renderer.render(scene,camera);if(thumbnail&&performance.now()>thumbnail){thumbnail=0;const img=document.querySelector('#detailThumb');if(img){try{img.src=renderer.domElement.toDataURL('image/webp',.7)}catch{}}}}
  frame();
 }

diff --git a/island-model.js b/island-model.js
@@ -97,13 +97,14 @@ export function buildMedicalTown(T,RoundedBoxGeometry,definitions){
 
  // A continuous faceted lake basin surrounds the navigable districts.
  function lakeBasin(){
-  owner=-1;const segments=64,scales=[1,1.045,1.16,1.42,1.85,2.6,4],levels=[.015,.17,.68,2.6,7.2,4.1,3.2],rings=[],triangles=[],groups=new Map(),palette=[0xcbd0ac,0xbdc69b,0xb7c195,0xb1bc8e,0xbbc599,0xb4bf92],rx=20.2,rz=18.7;
+  owner=-1;const segments=64,scales=[1,1.045,1.16,1.42,1.85,2.6,4],levels=[.015,.17,.68,3.2,10.2,6.4,4.8],rings=[],triangles=[],groups=new Map(),palette=[0xc1c9a4,0xa5b68e,0x99ad85,0x8fa47e,0xa6b68c,0x93a980],rx=20.2,rz=18.7;
   for(let j=0;j<scales.length;j++){rings[j]=[];for(let k=0;k<segments;k++){const a=k/segments*Math.PI*2,shore=1+.050*Math.sin(a*3+.3)+.030*Math.cos(a*7),ridge=Math.sin(a*5+.2)*.8+Math.cos(a*9)*.45+Math.sin(a*3)*.65,y=levels[j]+(j>1?ridge*(j-1)*.32:Math.sin(a*5)*.025);rings[j].push([Math.cos(a)*rx*scales[j]*shore,y,Math.sin(a)*rz*scales[j]*shore])}}
   function triangle(A,B,C,j,k){if((B[2]-A[2])*(C[0]-A[0])-(B[0]-A[0])*(C[2]-A[2])<0)[B,C]=[C,B];const color=j===0?palette[0]:palette[1+(k+j*3)%5];if(!groups.has(color))groups.set(color,[]);groups.get(color).push(...A,...B,...C);triangles.push({A,B,C,band:j})}
   for(let j=0;j<rings.length-1;j++)for(let k=0;k<segments;k++){const next=(k+1)%segments,A=rings[j][k],B=rings[j+1][k],C=rings[j][next],D=rings[j+1][next];triangle(A,B,C,j,k);triangle(B,D,C,j,k+1)}
   let index=0;for(const[color,positions]of groups){const kind='landscape'+index++,geo=new T.BufferGeometry();geo.setAttribute('position',new T.Float32BufferAttribute(positions,3));geo.computeVertexNormals();G[kind]=geo;p(kind,0,0,0,1,1,1,color)}
-  function pine(x,y,z,s){cyl(x,y+.30*s,z,.035*s,.60*s,C.brown);p('cone',x,y+.68*s,z,.56*s,1.05*s,.56*s,0x839c6b);p('cone',x,y+1.02*s,z,.38*s,.88*s,.38*s,0x9bb07a)}
-  let forestCount=0;for(const t of triangles){if(t.band<1||t.band>3||rand()>.60)continue;let u=.18+rand()*.48,v=.18+rand()*.35;if(u+v>.88)v=.88-u;const w=1-u-v,x=t.A[0]*u+t.B[0]*v+t.C[0]*w,y=t.A[1]*u+t.B[1]*v+t.C[1]*w,z=t.A[2]*u+t.B[2]*v+t.C[2]*w,s=.65+rand()*.65;if(rand()<.65)pine(x,y,z,s);else tree(x,z,s,false,y,true);forestCount++}
+  function pine(x,y,z,s){cyl(x,y+.30*s,z,.035*s,.60*s,C.brown);p('cone',x,y+.68*s,z,.56*s,1.05*s,.56*s,0x608767);p('cone',x,y+1.02*s,z,.38*s,.88*s,.38*s,0x7d9c77)}
+  let forestCount=0;for(const t of triangles)for(let grove=0;grove<3;grove++){if(t.band<1||t.band>4||rand()>.55)continue;let u=.18+rand()*.48,v=.18+rand()*.35;if(u+v>.88)v=.88-u;const w=1-u-v,x=t.A[0]*u+t.B[0]*v+t.C[0]*w,y=t.A[1]*u+t.B[1]*v+t.C[1]*w,z=t.A[2]*u+t.B[2]*v+t.C[2]*w,s=.65+rand()*.65;if(rand()<.65)pine(x,y,z,s);else tree(x,z,s,false,y,true);forestCount++}
+  for(let h=0;h<14;h++){const k=(h*7+11)%segments,A=rings[1][k],B=rings[2][k],x=A[0]*.5+B[0]*.5,z=A[2]*.5+B[2]*.5,y=A[1]*.5+B[1]*.5;box(x,y+.22,z,.44,.44,.38,0xf0e7cf);p('roof',x,y+.53,z,.72,.26,.64,C.coral,Math.PI/4);box(x,y+.26,z+.20,.15,.17,.025,C.glass)}
   let cloudGroups=0;for(let c=0;c<12;c++){const a=c/12*Math.PI*2+.15;if(Math.cos(a)*.47+Math.sin(a)*.65>.05)continue;cloudGroups++;const x=Math.cos(a)*32,z=Math.sin(a)*30,y=11+Math.sin(a*3)*1.4;for(let b=0;b<6;b++){const f=b/5-.5;ball(x+f*3.6,y+Math.sin(b*1.4)*.28,z+Math.cos(b*1.8)*.48,.88+(b%3)*.14,0xf1f0e5,[1.25,.72,.90])}}
   return{shoreline:rings[0],overview:Array.from({length:12},(_,i)=>({x:Math.cos(i/12*Math.PI*2)*18.9,z:Math.sin(i/12*Math.PI*2)*17.5})),forestCount,terrainTriangles:triangles.length,cloudGroups};
  }
@@ -111,6 +112,24 @@ export function buildMedicalTown(T,RoundedBoxGeometry,definitions){
 
  G.glass=G.round;const batches=new Map();for(const a of parts){const key=a.color===C.glass?'glass':a.kind;let b=batches.get(key);if(!b)batches.set(key,b=[]);b.push(a)}
  const staticMeshes=[];for(const [kind,items]of batches){const material=new T.MeshStandardMaterial({roughness:kind==='ball'?.66:.82,metalness:0,vertexColors:false});const mesh=new T.InstancedMesh(G[kind],material,items.length);mesh.castShadow=true;mesh.receiveShadow=true;mesh.userData.owners=items.map(p=>p.owner);const dummy=new T.Object3D();items.forEach((a,i)=>{dummy.position.set(...a.pos);dummy.rotation.set(...a.rot);dummy.scale.set(...a.scale);dummy.updateMatrix();mesh.setMatrixAt(i,dummy.matrix);mesh.setColorAt(i,new T.Color(a.color))});mesh.instanceMatrix.needsUpdate=true;mesh.instanceColor.needsUpdate=true;mesh.computeBoundingSphere();root.add(mesh);staticMeshes.push({mesh,items,kind})}
+ // Cargo and air traffic are scenery; they do not represent actual trade routes.
+ const transport=new T.Group(),vehicles=[],vehicleMeshes=[],beacons=[];root.add(transport);
+ function vehiclePart(parent,kind,pos,scale,color,rotation=[0,0,0],light=false){const material=new T.MeshStandardMaterial({color,roughness:.72,emissive:light?color:0,emissiveIntensity:light?.3:0}),mesh=new T.Mesh(G[kind],material);mesh.position.set(...pos);mesh.scale.set(...scale);mesh.rotation.set(...rotation);mesh.castShadow=true;mesh.receiveShadow=true;parent.add(mesh);vehicleMeshes.push({mesh,color});if(light)beacons.push(mesh);return mesh}
+ const ship=new T.Group();ship.name='cargo-vessel';transport.add(ship);vehicles.push({kind:'cargo',group:ship});
+ const vp=(kind,pos,scale,color,rotation,light)=>vehiclePart(ship,kind,pos,scale,color,rotation,light);
+ vp('round',[0,.13,0],[.94,.40,3.18],0x365b64);vp('ball',[0,.12,1.40],[.92,.39,.78],0x365b64);vp('round',[0,.35,0],[.87,.11,2.80],0xc8bca3);vp('round',[0,.55,-1.05],[.76,.41,.56],0xf4ecdb);vp('round',[0,.81,-1.05],[.79,.14,.58],0xf4ecdb);vp('round',[0,.82,-.74],[.62,.10,.025],0x709d9e);vp('cyl',[.19,1.02,-1.12],[.12,.36,.12],0xc76b45);
+ for(let row=0;row<3;row++)for(let col=0;col<2;col++){const x=(col-.5)*.39,z=-.37+row*.58,c=[0xd8744b,0x669692,0xd6b961,0xe2c5a3,0x7f999e,0xc87251][row*2+col];vp('round',[x,.57,z],[.36,.33,.52],c);for(let rib=0;rib<4;rib++)vp('box',[x-.182,.57,z+(rib-1.5)*.11],[.013,.28,.017],0xeee3ce);if(row<2)vp('round',[x,.91,z],[.36,.32,.52],c)}
+ vp('ball',[-.43,.76,-.80],[.07,.07,.07],0xe77d64,undefined,true);vp('ball',[.43,.76,-.80],[.07,.07,.07],0x8dc5aa,undefined,true);
+ for(const side of [-1,1])vp('round',[side*.55,-.035,-1.85],[.07,.018,1.4],0xa0d0ce,[0,side*.14,0]);
+ const plane=new T.Group();plane.name='cargo-aircraft';transport.add(plane);vehicles.push({kind:'aircraft',group:plane});
+ const ap=(kind,pos,scale,color,rotation,light)=>vehiclePart(plane,kind,pos,scale,color,rotation,light);
+ ap('ball',[0,0,0],[.43,.43,2.7],0xf3eee2);ap('ball',[0,.10,1.02],[.32,.16,.35],0x567d87);ap('round',[0,-.03,-.12],[2.72,.075,.44],0xe5e4db,[0,.10,0]);ap('round',[0,.06,-1.02],[1.08,.065,.34],0xd3764d);ap('round',[0,.35,-1.06],[.085,.63,.48],0xd3764d,[.18,0,0]);
+ for(const side of [-1,1]){ap('ball',[side*.68,-.19,.04],[.25,.25,.59],0xe6e7e0);ap('ball',[side*.68,-.19,.30],[.16,.16,.025],0x3d5b62);ap('ball',[side*1.36,-.01,-.24],[.065,.065,.065],side<0?0xd7765c:0x79b49a,undefined,true);for(let w=0;w<5;w++)ap('round',[side*.207,.07,.64-w*.22],[.019,.060,.080],0x739a9d)}
+ function updateTransport(time){const a=time*.021+.75;ship.position.set(Math.sin(a)*17.0,-.01,Math.cos(a)*15.7);ship.rotation.y=Math.atan2(Math.cos(a)*17.0,-Math.sin(a)*15.7);ship.rotation.z=Math.sin(time*.8)*.012;
+  const u=((time+31)%112)/112;plane.visible=u<.83;const t=u/.83;plane.position.set(-31+t*62,10.4+Math.sin(t*Math.PI)*1.1,-12+t*16);plane.rotation.y=Math.atan2(62,16);plane.rotation.z=-Math.sin(t*Math.PI*2)*.045;
+ }
+ updateTransport(0);
+
  // Connect building doors, their forecourts, sidewalks and the adjacent-cell crossings.
  const nodes=[],adj=[],rings=[],doorIds=[],stations=[],pathCache=new Map();
  function node(x,z,tile,building=-1){const id=nodes.length;nodes.push({x,z,tile,building});adj.push([]);return id}
@@ -150,11 +169,12 @@ export function buildMedicalTown(T,RoundedBoxGeometry,definitions){
  }
  const api={hiddenActor:-1};
  updatePeople(0);
- function setNight(n){for(const b of staticMeshes){let changed=false;b.items.forEach((a,i)=>{if(a.color===C.glass){const c=new T.Color(C.glass).lerp(new T.Color(0xffd99a),n);b.mesh.setColorAt(i,c);changed=true}});if(changed)b.mesh.instanceColor.needsUpdate=true}}
+ function setNight(n){for(const b of beacons)b.material.emissiveIntensity=.3+n*2.4;for(const b of staticMeshes){let changed=false;b.items.forEach((a,i)=>{if(a.color===C.glass){const c=new T.Color(C.glass).lerp(new T.Color(0xffd99a),n);b.mesh.setColorAt(i,c);changed=true}});if(changed)b.mesh.instanceColor.needsUpdate=true}}
  function exportRender(){
   const out=staticMeshes.map(b=>({kind:b.kind,positions:Array.from(G[b.kind].attributes.position.array),normals:Array.from(G[b.kind].attributes.normal.array),indices:G[b.kind].index?Array.from(G[b.kind].index.array):null,items:b.items}));
   for(const b of dynamicMeshes){const kind=b.list.length?actors[b.list[0].actor].parts[b.list[0].part].kind:null;if(!kind)continue;const items=b.list.map(r=>{const a=actors[r.actor];if(a.indoors)return null;const p=a.parts[r.part],c=Math.cos(a.ry),s=Math.sin(a.ry);return{kind,pos:[a.x+p.pos[0]*c+p.pos[2]*s,a.y+p.pos[1],a.z-p.pos[0]*s+p.pos[2]*c],scale:p.scale,color:p.color,rot:[p.rot[0],p.rot[1]+a.ry,p.rot[2]]}}).filter(Boolean);out.push({kind,positions:Array.from(G[kind].attributes.position.array),normals:Array.from(G[kind].attributes.normal.array),indices:G[kind].index?Array.from(G[kind].index.array):null,items})}
+  root.updateMatrixWorld(true);for(const{mesh,color}of vehicleMeshes){if(!mesh.parent.visible)continue;const pos=new T.Vector3(),q=new T.Quaternion(),scale=new T.Vector3();mesh.matrixWorld.decompose(pos,q,scale);const e=new T.Euler().setFromQuaternion(q),geo=mesh.geometry;out.push({kind:'transport',positions:Array.from(geo.attributes.position.array),indices:geo.index?Array.from(geo.index.array):null,items:[{pos:pos.toArray(),scale:scale.toArray(),rot:[e.x,e.y,e.z],color}]})}
   return {centers:tileCenters,batches:out,landscape};
  }
- return Object.assign(api,{root,tileCenters,landscape,staticMeshes,parts,actors,geometries:G,updatePeople,setNight,lamps,routes,doors,navigation:{nodes,doorIds,stations},constants:{TOP,R},exportRender});
+ return Object.assign(api,{root,tileCenters,landscape,transport,vehicles,updateTransport,staticMeshes,parts,actors,geometries:G,updatePeople,setNight,lamps,routes,doors,navigation:{nodes,doorIds,stations},constants:{TOP,R},exportRender});
 }
